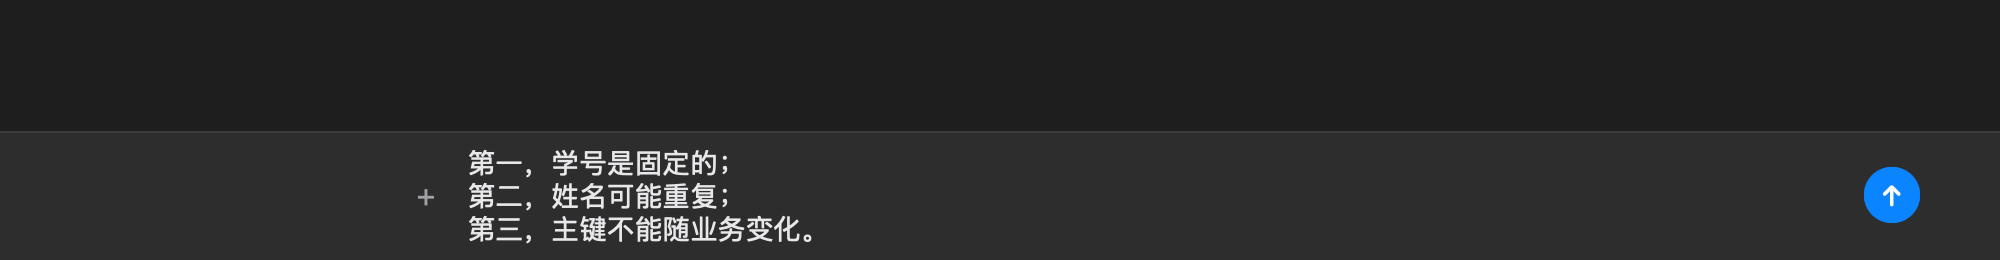
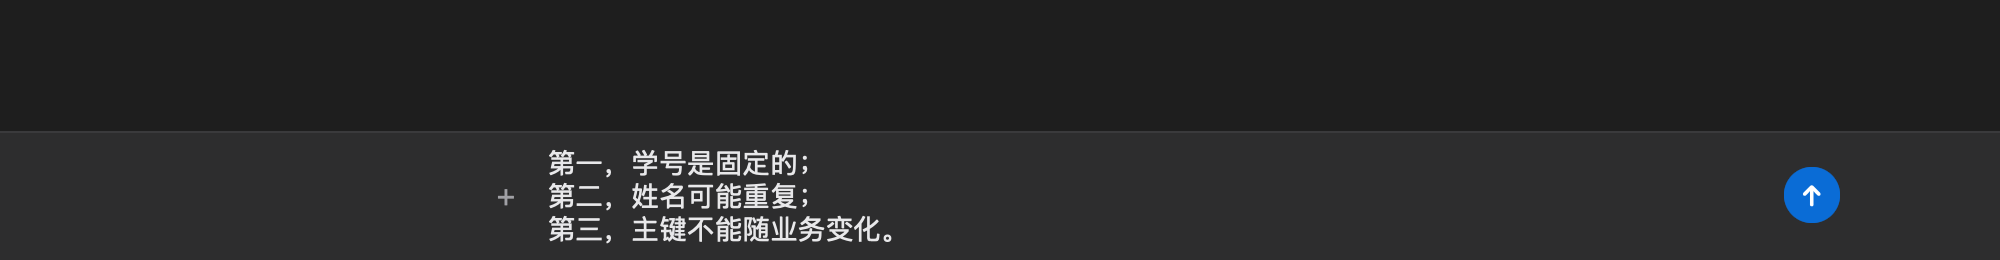
Tighten the Xcode workbench toolbar and navigation
- Flatten toolbar controls and drop the brand tile.
- Compact the sidebar search and lower route selection to a blue rail so the current node stays primary.
- Align the composer with the 680px message column.
- Add blueStrong for white-on-blue surfaces to keep text contrast.
- Refresh design notes and screenshots.

diff --git a/desktop/chat.go b/desktop/chat.go
@@ -139,7 +139,7 @@ func (a *app) emptyChat(c *ui.Context, t *ui.Theme) {
 func (a *app) userBubble(c *ui.Context, t *ui.Theme, text string) {
 	p := paletteFor(t.Dark)
 	ui.Row(c).FillWidth().Justify(ui.End).Children(func() {
-		ui.Box(c).MaxWidth(480).Padding(6, 10).Radius(radiusControl).Background(p.navActive).Children(func() {
+		ui.Box(c).MaxWidth(480).Padding(6, 10).Radius(radiusControl).Background(p.blueStrong).Children(func() {
 			ui.Text(c, text).FontSize(fsRead).LineHeight(1.5).TextColor(p.text)
 		})
 	})
@@ -273,7 +273,7 @@ func (a *app) composerBox(c *ui.Context, t *ui.Theme) {
 	}
 	ui.Column(c).FillWidth().AlignItems(ui.Center).BorderWidth(1, 0, 0, 0).
 		BorderColor(top).Background(p.surface2).Padding(6, 14, 8, 14).Children(func() {
-		ui.Row(c).FillWidth().MaxWidth(760).Gap(8).AlignItems(ui.Center).Children(func() {
+		ui.Row(c).FillWidth().MaxWidth(680).Gap(8).AlignItems(ui.Center).Children(func() {
 			plus := ui.ButtonBase(c).Size(26, 26).Radius(radiusBadge).Label("导入文本").
 				Tooltip("导入文本").Center().Children(func() {
 				ui.Text(c, "+").FontSize(15).TextColor(p.muted)
@@ -297,7 +297,7 @@ func (a *app) composerBox(c *ui.Context, t *ui.Theme) {
 			}
 
 			if a.streaming {
-				stop := ui.ButtonBase(c).Size(28, 28).Radius(14).Background(p.blue).
+				stop := ui.ButtonBase(c).Size(28, 28).Radius(14).Background(p.blueStrong).
 					Label("停止").Tooltip("停止").Center().Children(func() {
 					ui.Text(c, "■").FontSize(9).TextColor(ui.Hex("#FFFFFF"))
 				})
@@ -306,7 +306,7 @@ func (a *app) composerBox(c *ui.Context, t *ui.Theme) {
 				}
 			} else {
 				disabled := strings.TrimSpace(a.draft) == ""
-				bg, fg, border := p.blue, ui.Hex("#FFFFFF"), p.blue
+				bg, fg, border := p.blueStrong, ui.Hex("#FFFFFF"), p.blueStrong
 				if disabled {
 					bg, fg, border = p.fieldBg, p.faint, p.hairline
 				}
@@ -317,7 +317,7 @@ func (a *app) composerBox(c *ui.Context, t *ui.Theme) {
 				if disabled {
 					send.IgnoreInput(true)
 				} else if send.Hovered() {
-					send.Background(withAlpha(p.blue, 0.9))
+					send.Background(withAlpha(p.blueStrong, 0.9))
 				}
 				if !disabled && send.Clicked() {
 					a.send(a.draft)
@@ -325,7 +325,7 @@ func (a *app) composerBox(c *ui.Context, t *ui.Theme) {
 			}
 		})
 		if a.errText != "" {
-			ui.Column(c).FillWidth().MaxWidth(760).Padding(3, 0, 0, 0).Children(func() {
+			ui.Column(c).FillWidth().MaxWidth(680).Padding(3, 0, 0, 0).Children(func() {
 				ui.Text(c, a.errText).FontSize(fsCaption).TextColor(p.rust).MaxLines(2)
 			})
 		}

diff --git a/desktop/toolbar.go b/desktop/toolbar.go
@@ -9,9 +9,7 @@ func (a *app) toolbar(c *ui.Context, t *ui.Theme) {
 	ui.Row(c).FillWidth().Height(48).Padding(0, bar.Right+10, 0, bar.Left+8).
 		Gap(8).AlignItems(ui.Center).Background(p.surface2).
 		BorderWidth(0, 0, 1, 0).BorderColor(p.hairline).Children(func() {
-		ui.Box(c).Size(18, 18).Radius(4).Background(p.navHover).Center().Children(func() {
-			ui.Text(c, "✦").FontSize(10).TextColor(p.blue)
-		})
+		ui.Text(c, "✦").FontSize(12).TextColor(p.blue)
 		ui.Text(c, "JustLearn").FontSize(13).FontWeight(600).TextColor(p.text)
 		ui.Box(c).Width(1).Height(16).Background(p.hairline)
 		title := a.goal.Title
@@ -21,16 +19,15 @@ func (a *app) toolbar(c *ui.Context, t *ui.Theme) {
 		if title == "" {
 			title = "新对话"
 		}
-		ui.Text(c, title).FontSize(fsCaption).FontWeight(600).TextColor(p.muted).
+		ui.Text(c, title).FontSize(fsUI).FontWeight(500).TextColor(p.muted).
 			MaxLines(1).MaxWidth(320).DragWindow()
 		ui.Box(c).Grow(1).FillHeight().DragWindow()
 
-		modelButton = ui.ButtonBase(c).Padding(3, 8).Radius(6).Background(p.fieldBg).
-			BorderWidth(1).BorderColor(p.hairline).Label("选择模型").Tooltip("选择模型").Children(func() {
+		modelButton = ui.ButtonBase(c).Padding(3, 8).Radius(6).
+			Label("选择模型").Tooltip("选择模型").Children(func() {
 			ui.Row(c).Gap(4).AlignItems(ui.Center).Children(func() {
-				ui.Text(c, "✦").FontSize(10).TextColor(p.blue)
-				ui.Text(c, prettyModel(cfgModel(a.store))).FontSize(fsCaption).TextColor(p.muted).MaxLines(1)
-				ui.Text(c, "⌄").FontSize(10).TextColor(p.muted)
+				ui.Text(c, prettyModel(cfgModel(a.store))).FontSize(fsUI).TextColor(p.muted).MaxLines(1).MaxWidth(180)
+				ui.Text(c, "⌄").FontSize(10).TextColor(p.faint)
 			})
 		})
 		if modelButton.Hovered() {
@@ -43,9 +40,8 @@ func (a *app) toolbar(c *ui.Context, t *ui.Theme) {
 			}
 		}
 
-		settings := ui.ButtonBase(c).Padding(3, 8).Radius(6).Background(p.fieldBg).
-			BorderWidth(1).BorderColor(p.hairline).Label("设置").Tooltip("设置").Children(func() {
-			ui.Text(c, "设置").FontSize(fsCaption).TextColor(p.muted)
+		settings := ui.ButtonBase(c).Padding(3, 8).Radius(6).Label("设置").Tooltip("设置").Children(func() {
+			ui.Text(c, "设置").FontSize(fsUI).TextColor(p.muted)
 		})
 		if settings.Hovered() {
 			settings.Background(p.navHover)

diff --git a/desktop/sidebar.go b/desktop/sidebar.go
@@ -10,8 +10,9 @@ func (a *app) sidebar(c *ui.Context, t *ui.Theme) {
 	p := paletteFor(t.Dark)
 	ui.Column(c).Width(280).FillHeight().Background(p.sidebar).
 		BorderWidth(0, 1, 0, 0).BorderColor(p.navLine).Children(func() {
-		ui.Column(c).Padding(2, 6, 2, 6).Children(func() {
-			ui.SearchField(c, &a.search).FillWidth().Placeholder("搜索节点")
+		ui.Column(c).Padding(6, 8, 4, 8).Children(func() {
+			ui.SearchField(c, &a.search).FillWidth().Height(28).Radius(6).
+				Background(p.fieldBg).BorderWidth(1).BorderColor(p.hairline).Placeholder("搜索节点")
 		})
 
 		ui.Column(c).PaddingX(6).Children(func() {
@@ -51,7 +52,7 @@ func (a *app) sidebar(c *ui.Context, t *ui.Theme) {
 							ui.Row(c).FillWidth().AlignItems(ui.Center).Children(func() {
 								pct := p.faint
 								if active {
-									pct = p.sidebarText
+									pct = p.muted
 								}
 								ui.Text(c, g.Title).FontSize(fsRead).FontWeight(weight).MaxLines(1).
 									TextColor(p.sidebarText)
@@ -60,7 +61,8 @@ func (a *app) sidebar(c *ui.Context, t *ui.Theme) {
 							})
 						})
 						if active {
-							row.Background(p.navActive)
+							row.Background(p.navHover)
+							row.BorderWidth(0, 0, 0, 2).BorderColor(p.blue)
 						} else if row.Hovered() {
 							row.Background(p.navHover)
 						}
@@ -71,7 +73,7 @@ func (a *app) sidebar(c *ui.Context, t *ui.Theme) {
 						}
 						xColor := p.faint
 						if active {
-							xColor = p.sidebarText
+							xColor = p.muted
 						}
 						del := ui.ButtonBase(c).Size(18, 18).Radius(radiusBadge).Label("删除路线").
 							Tooltip("删除路线").Center().Children(func() {
@@ -115,7 +117,7 @@ func (a *app) sidebar(c *ui.Context, t *ui.Theme) {
 						})
 					})
 					if selected {
-						row.Background(p.navActive)
+						row.Background(p.blueStrong)
 					} else if row.Hovered() {
 						row.Background(p.navHover)
 					}

diff --git a/desktop/theme.go b/desktop/theme.go
@@ -44,6 +44,7 @@ type palette struct {
 	hairline     ui.Color
 	borderStrong ui.Color
 	blue         ui.Color
+	blueStrong   ui.Color
 	blueSoft     ui.Color
 	recallBg     ui.Color
 	blueLine     ui.Color
@@ -51,7 +52,6 @@ type palette struct {
 	green        ui.Color
 	rustSoft     ui.Color
 	shadow       ui.Color
-	navActive    ui.Color
 	navHover     ui.Color
 	navLine      ui.Color
 	fieldBg      ui.Color
@@ -73,6 +73,7 @@ func paletteFor(dark bool) palette {
 			hairline:     ui.Hex("#3A3A3C"),
 			borderStrong: ui.Hex("#4C4C50"),
 			blue:         ui.Hex("#0A84FF"),
+			blueStrong:   ui.Hex("#0A6CD6"),
 			blueSoft:     ui.Hex("#0B2E4F"),
 			recallBg:     ui.Hex("#102A43"),
 			blueLine:     ui.Hex("#1F4E7A"),
@@ -80,7 +81,6 @@ func paletteFor(dark bool) palette {
 			rustSoft:     ui.Hex("#3A1C1B"),
 			green:        ui.Hex("#30D158"),
 			shadow:       ui.RGBA(0, 0, 0, 0.55),
-			navActive:    ui.Hex("#0A84FF"),
 			navHover:     ui.Hex("#2F2F31"),
 			navLine:      ui.Hex("#3A3A3C"),
 			fieldBg:      ui.Hex("#2C2C2E"),
@@ -100,13 +100,13 @@ func paletteFor(dark bool) palette {
 		hairline:     ui.Hex("#E6E6E6"),
 		borderStrong: ui.Hex("#D2D2D2"),
 		blue:         ui.Hex("#C2410C"),
+		blueStrong:   ui.Hex("#9A3412"),
 		blueSoft:     ui.Hex("#FFF4ED"),
 		blueLine:     ui.Hex("#FED7AA"),
 		rust:         ui.Hex("#B42318"),
 		green:        ui.Hex("#16A34A"),
 		rustSoft:     ui.Hex("#FEF3F2"),
 		shadow:       ui.RGBA(17, 17, 17, 0.05),
-		navActive:    ui.Hex("#ECECEC"),
 		navHover:     ui.Hex("#F1F1F1"),
 		navLine:      ui.Hex("#E6E6E6"),
 		fieldBg:      ui.Hex("#F5F5F5"),

diff --git a/desktop/settings.go b/desktop/settings.go
@@ -46,12 +46,12 @@ func (a *app) settingsDialog(c *ui.Context, t *ui.Theme) {
 						a.settingsOpen = false
 						a.errText = ""
 					}
-					save := ui.ButtonBase(c).Width(60).Height(24).Radius(radiusBadge).Background(p.text).Center().
+					save := ui.ButtonBase(c).Width(60).Height(24).Radius(radiusBadge).Background(p.blueStrong).Center().
 						Children(func() {
-							ui.Text(c, "保存").FontSize(fsCaption).FontWeight(600).TextColor(p.canvas)
+							ui.Text(c, "保存").FontSize(fsCaption).FontWeight(600).TextColor(ui.Hex("#FFFFFF"))
 						})
 					if save.Hovered() {
-						save.Background(withAlpha(p.text, 0.88))
+						save.Background(withAlpha(p.blueStrong, 0.9))
 					}
 					if save.Clicked() {
 						a.saveSettings()

diff --git a/DESIGN.md b/DESIGN.md
@@ -23,11 +23,12 @@ Xcode 式深色工作台：48px 全局工具栏、左侧源码列表式路线导
 - `body`：正文。`#CFCFD2`
 - `muted` / `faint`：辅助信息、占位。`#A0A0A5` / `#7C7C82`
 - `hairline` / `borderStrong`：分隔线、滚动条。`#3A3A3C` / `#4C4C50`
-- `blue`：唯一强调色，系统蓝。`#0A84FF`；用于选中行、发送按钮、用户气泡、课文页边线与 AI 星标
+- `blue`：强调色，系统蓝。`#0A84FF`；用于细线、焦点、链接、课文页边线与 AI 星标
+- `blueStrong`：承载白字的实色。`#0A6CD6`；用于节点选中、用户气泡、发送/保存按钮，保证对比度
 - `blueSoft` / `recallBg` / `blueLine`：蓝色浅底与描边。`#0B2E4F` / `#102A43` / `#1F4E7A`
 - `green`：学习中状态点。`#30D158`
 - `rust` / `rustSoft`：错误与删除。`#FF453A` / `#3A1C1B`
-- `navActive` / `navHover` / `navLine`：侧栏选中、悬停、边线。`#0A84FF` / `#2F2F31` / `#3A3A3C`
+- `blueStrong` / `navHover` / `navLine`：侧栏选中、悬停、边线。`#0A6CD6` / `#2F2F31` / `#3A3A3C`
 - `fieldBg`：输入框、按钮底、代码底。`#2C2C2E`
 
 ## 字体
@@ -43,12 +44,12 @@ Xcode 式深色工作台：48px 全局工具栏、左侧源码列表式路线导
 
 ## 形状与布局
 
-- 窗口：工具栏 48，侧栏 280，消息列 680，输入条 760
-- 工具栏：`#2D2D2E`；左侧让出交通灯（`bar.Left/Right`），依次为 ✦ JustLearn、分隔线、当前路线标题、可拖动空白、模型胶囊、设置
-- 侧栏：`#252526`，右侧 1px `navLine`；搜索 → 新路线 → 路线列表 → 阶段与节点；没有独立品牌行，也没有底部设置
+- 窗口：工具栏 48，侧栏 280，消息列 680，输入条 680（与消息列对齐）
+- 工具栏：`#2D2D2E`；左侧让出交通灯（`bar.Left/Right`），依次为 ✦ JustLearn、分隔线、当前路线标题、可拖动空白、模型菜单、设置；模型与设置无边框，只在悬停时出现 `navHover` 底
+- 侧栏：`#252526`，右侧 1px `navLine`；搜索框高 28、`fieldBg` 底；搜索 → 新路线 → 路线列表 → 阶段与节点；没有独立品牌行，也没有底部设置
 - 主区：`#1E1E1E`；聊天列表 + 底部平栏输入，没有白色面板、圆角容器和重复顶栏
-- 路线与节点行高 24–26；选中蓝底白字，悬停 `navHover`；节点状态：学习中绿点、已掌握绿对号、未开始留空
-- 输入条：`#2D2D2E` 平栏，只有上边线；左 `+` 导入文本，中间输入，右侧 28px 蓝色圆形发送/停止
+- 路线与节点行高 24–26；节点选中蓝底白字，悬停 `navHover`；路线选中只用 2px 蓝左条 + `navHover` 底，避免与节点抢主次；节点状态：学习中绿点、已掌握绿对号、未开始留空
+- 输入条：`#2D2D2E` 平栏，只有上边线；宽度与消息列同为 680；左 `+` 导入文本，中间输入，右侧 28px 蓝色圆形发送/停止
 - 控件圆角 4–6；浮层使用单层阴影；消息列与输入条不套卡片
 
 ## 热力图
@@ -62,7 +63,7 @@ Xcode 式深色工作台：48px 全局工具栏、左侧源码列表式路线导
 - **聊天**：用户消息为右对齐蓝色气泡；教练消息是文档段落，不套卡片、不加头像；课文左侧 2px 蓝色页边线，小测一次一题、行内判分。
 - **空态**：✦ 标志、标题、一句说明和三个建议主题；居中于编辑区。
 - **设置**：深色 DialogBase；主按钮为系统蓝，字段底 `fieldBg`。
-- **模型菜单**：工具栏胶囊下方的深色浮层，当前模型带对号，底部入口回到设置。
+- **模型菜单**：工具栏模型按钮下方的深色浮层，当前模型带对号，底部入口回到设置。
 - **删除**：路线删除会连带节点、格子、相关会话和消息；删除当前路线后新建一条空路线。
 
 ## 窗口
@@ -80,6 +81,7 @@ Xcode 式深色工作台：48px 全局工具栏、左侧源码列表式路线导
 ## 用户取舍
 
 - 2026-11-05：改为 Xcode 式深色两栏结构：全局工具栏 + 源码列表侧栏 + 无边框聊天区（用户确认）
+- 2026-11-05：工具栏控件去边框、搜索框收紧、输入条与消息列同宽、路线选中降为左蓝条；白字实色改用更深的 `blueStrong`（Agent 推断）
 - 2026-11-05：右侧热力图暂时不展示，界面只保留左侧路线图和右侧聊天（用户确认）
 - 2026-11-05：左侧展示完整学习路线（路线 + 全部节点），不再展示会话（用户确认）
 - 2026-11-05：节点状态用绿点/对号/留空，去掉“学习中/待学”文字（用户确认）
